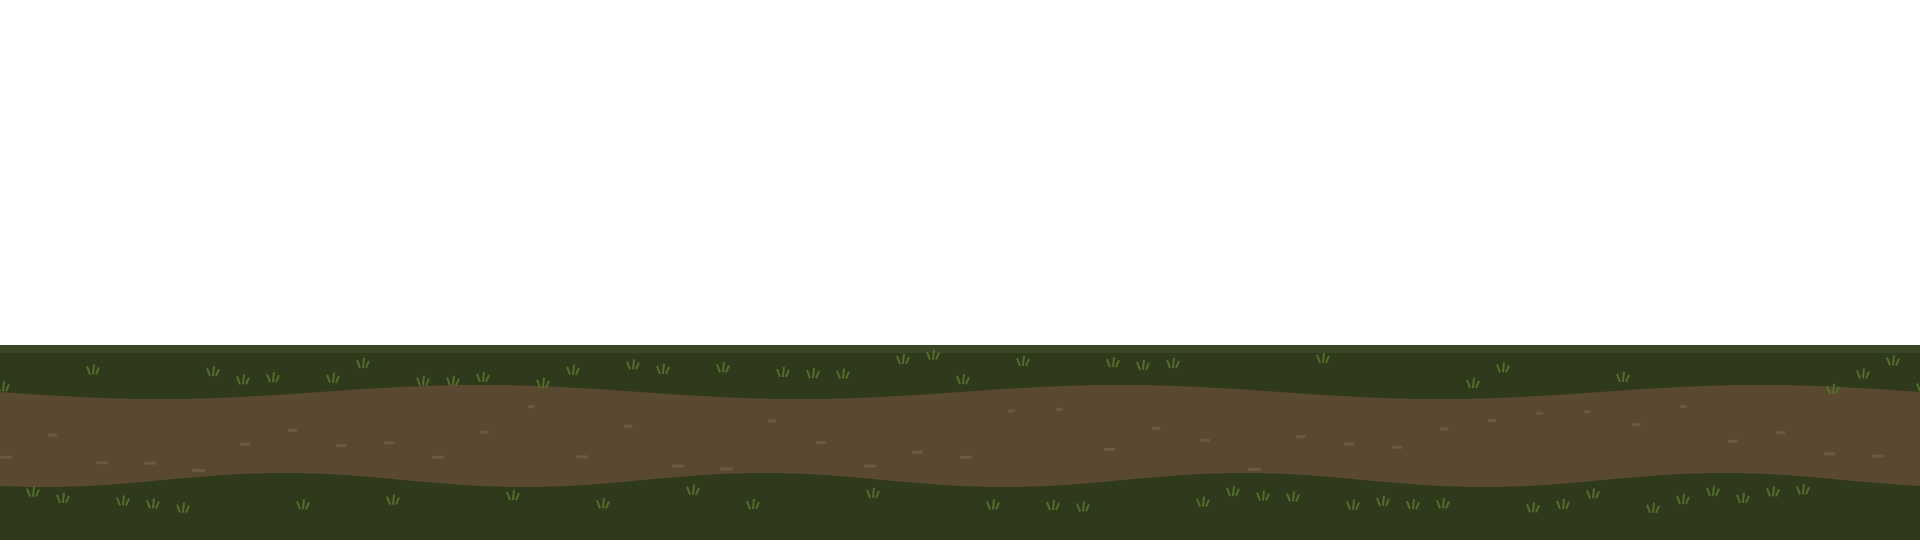
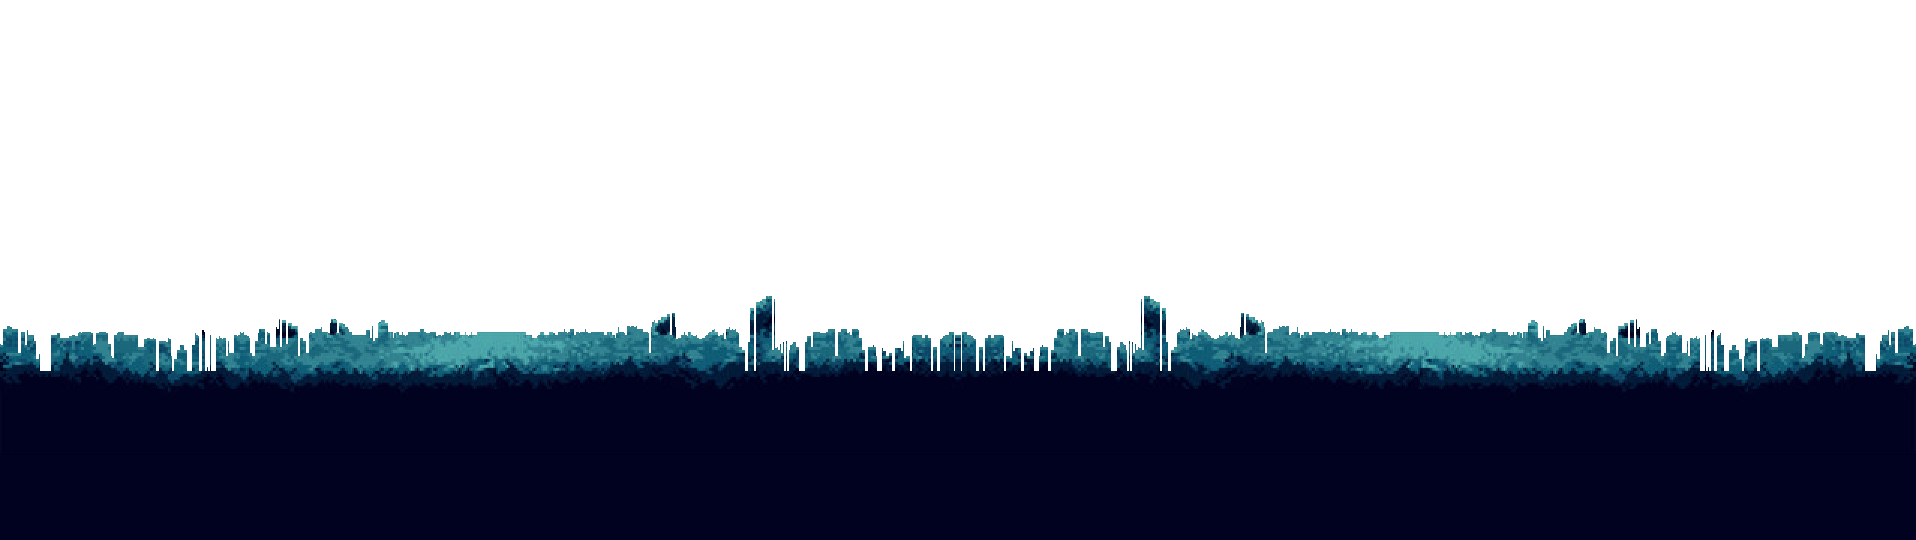
Act I: moonlit forest background with Castle Ravenloft
- Dark forest (art-source/backgrounds/forest-dark.png) as a slow backdrop,
  tiled seamlessly by mirroring; its small moon painted out
- Castle + moon cut from forest-castle.png, recoloured to the forest's
  teal palette with soft edges, shown once in the clearing
- Ground from the forest's own grass line, aligned to the walkable floor
- Background layers can be 'once' (single image, scrolls by, pinned on
  title/menu screens)
- Old placeholder forest layers removed (title/select use the new art)

diff --git a/src/data/backgrounds.js b/src/data/backgrounds.js
@@ -3,16 +3,15 @@
 // factor -> how fast the layer scrolls with the camera (0 = fixed sky, 1 = moves with the floor, >1 = foreground)
 // drift  -> extra pixels per tick the layer slides on its own (clouds, fog)
 // front  -> drawn in front of the characters
+// once   -> shown a single time instead of repeating: the image's left edge sits at this x (in pixels) at the
+//           start of the level, then scrolls at `factor` like the others. On title/menu screens it stays put.
+// y      -> for `once` layers: how far down the image's top edge sits
 // Scrolling layers should tile seamlessly left-to-right (the placeholders are 1920px wide).
 export const BACKGROUNDS = {
-  forest: [
-    { file: 'sky', factor: 0 },
-    { file: 'hillsFar', factor: 0.08 },
-    { file: 'hillsNear', factor: 0.16 },
-    { file: 'treesFar', factor: 0.3 },
-    { file: 'treesNear', factor: 0.62 },
+  forest: [          // Act I, also the title and hero select screens (made by tools/backgrounds/make_forest.py)
+    { file: 'backdrop', factor: 0.15 },               // the dark forest
+    { file: 'castle', factor: 0.15, once: 400, y: 40 }, // Castle Ravenloft and the moon, in the forest clearing
     { file: 'ground', factor: 1 },
-    { file: 'foreground', factor: 1.3, front: true },
   ],
   gothic: [
     { file: 'sky', factor: 0 },

diff --git a/src/ui/widgets.js b/src/ui/widgets.js
@@ -49,16 +49,19 @@ export function buildLayers(scene, theme, { fixed = false } = {}) {
   return BACKGROUNDS[theme].map((def, i) => {
     const key = `bg-${theme}-${def.file}`;
     const tex = scene.textures.get(key).getSourceImage();
-    const obj = def.factor === 0
-      ? scene.add.image(0, 0, key).setOrigin(0)
+    const obj = def.once != null ? scene.add.image(def.once, def.y || 0, key).setOrigin(0)   // shown once
+      : def.factor === 0 ? scene.add.image(0, 0, key).setOrigin(0)
       : scene.add.tileSprite(0, 0, W, tex.height || H, key).setOrigin(0);
     obj.setScrollFactor(0).setDepth(def.front ? 9000 : -1000 + i);
     if (fixed && def.front) obj.setVisible(false);
-    return { obj, factor: def.factor, drift: def.drift || 0 };
+    return { obj, factor: def.factor, drift: def.drift || 0, once: def.once, pinned: fixed };
   });
 }
 export function scrollLayers(layers, cam, tick) {
-  for (const l of layers) if (l.factor) l.obj.tilePositionX = cam * l.factor + tick * l.drift;
+  for (const l of layers) {
+    if (l.once != null) { if (!l.pinned) l.obj.x = Math.round(l.once - cam * l.factor); }   // single image slides by
+    else if (l.factor) l.obj.tilePositionX = cam * l.factor + tick * l.drift;
+  }
 }
 
 // Dark wash used behind menus

diff --git a/tools/backgrounds/make_forest.py b/tools/backgrounds/make_forest.py
@@ -1,0 +1,65 @@
+# Builds Act I's background (theme 'forest') from two pieces of art:
+#   art-source/backgrounds/forest-dark.png    the dark forest (scrolls, repeats seamlessly by mirroring)
+#   art-source/backgrounds/forest-castle.png  the castle and moon (cut out once, recoloured to the forest's palette)
+# Not part of the game. Needs Python with Pillow + NumPy (see tools/sprite-from-concept/README.md for setup).
+#   python tools/backgrounds/make_forest.py
+# Writes assets/backgrounds/forest/backdrop.png, castle.png and ground.png.
+import os
+import numpy as np
+from PIL import Image, ImageFilter
+
+ROOT = os.path.abspath(os.path.join(os.path.dirname(__file__), '..', '..'))
+OUT = os.path.join(ROOT, 'assets', 'backgrounds', 'forest')
+H = 540
+K = 1.5        # the forest art is 639x360; x1.5 fills the 540px-tall screen
+LIFT = 60      # raise the forest so its tree line sits at the top of the walkable floor (y 345)
+
+def load(name): return np.array(Image.open(os.path.join(ROOT, 'art-source', 'backgrounds', name)).convert('RGB')).astype(float)
+def scale(a, k): return np.array(Image.fromarray(a.astype(np.uint8)).resize((round(a.shape[1] * k), round(a.shape[0] * k)), Image.NEAREST)).astype(float)
+def mirror_tile(a): return np.concatenate([a, a[:, ::-1]], 1)   # image + flipped copy: repeats with no visible seam
+def save(a, name): Image.fromarray(np.clip(a, 0, 255).astype(np.uint8)).save(os.path.join(OUT, name + '.png'), optimize=True)
+
+forest = load('forest-dark.png')
+
+# 1. backdrop: the forest, its small moon removed (the castle brings its own), lifted, tiled by mirroring
+f = forest.copy()
+yy, xx = np.mgrid[0:f.shape[0], 0:f.shape[1]]
+f[(xx - 318) ** 2 + (yy - 28) ** 2 < 26 ** 2] = (14, 94, 119)          # paint the moon and its glow out with sky colour
+big = scale(f, K)[LIFT:LIFT + H]
+big = np.concatenate([big, np.tile(big[-1:], (H - big.shape[0], 1, 1))], 0) if big.shape[0] < H else big
+save(mirror_tile(big), 'backdrop')
+
+# 2. ground: the forest's own grassy floor, from the first bright grass row down; the rest dark
+band = forest[250:356]                                 # (the very last rows are a JPEG edge artifact)
+top = np.full(band.shape[1], 50)
+for x in range(band.shape[1]):
+    rows = np.where(band[:, x, 1] > 120)[0]            # first bright-grass pixel in this column
+    if len(rows): top[x] = min(rows[0], 50)
+top = np.maximum(top, np.array([np.median(top[max(0, x - 6):x + 7]) for x in range(len(top))]) - 3).astype(int)   # no single-column spikes
+alpha = (np.arange(band.shape[0])[:, None] >= top[None, :]) * 255.0
+g = scale(np.dstack([band, alpha]), K)
+grass_top = int(np.median(top) * K)                   # put the grass line just above the floor's top edge
+y0 = 335 - grass_top
+layer = np.zeros((H, g.shape[1], 4))
+layer[y0:y0 + g.shape[0]] = g[:H - y0]
+below = y0 + g.shape[0]
+if below < H: layer[below:] = (1, 2, 32, 255)          # deep shadow under the grass
+save(mirror_tile(layer), 'ground')
+
+# 3. castle: cut from the second image, recoloured into the forest's teal palette, soft edges, shown once
+castle = load('forest-castle.png')[20:330, 295:470]
+lum = castle @ [0.3, 0.55, 0.15]
+sky_lum = np.median(lum[:30, :20])                      # the night sky next to the castle
+stops = [(0, (1, 2, 32)), (sky_lum * 0.55, (3, 40, 72)), (sky_lum, (14, 94, 119)), (150, (72, 168, 167)), (225, (249, 234, 215)), (256, (255, 250, 235))]
+xs = [s[0] for s in stops]
+recol = np.dstack([np.interp(lum, xs, [s[1][c] for s in stops]) for c in range(3)])
+h, w = lum.shape
+yy, xx = np.mgrid[0:h, 0:w]
+cx, cy = w * 0.52, h * 0.42
+edge = np.clip(1.6 - np.sqrt(((xx - cx) / (w * 0.5)) ** 2 + ((yy - cy) / (h * 0.62)) ** 2) * 1.6, 0, 1)   # soft oval
+fade = np.clip((h * 0.97 - yy) / (h * 0.3), 0, 1)                                                          # base fades into the trees
+a = (edge * fade * 255)
+a = np.array(Image.fromarray(a.astype(np.uint8)).filter(ImageFilter.GaussianBlur(3))).astype(float)
+c = scale(np.dstack([recol, a]), 0.95)
+save(c, 'castle')
+print('backdrop', mirror_tile(big).shape[:2], '| ground', mirror_tile(layer).shape[:2], '| castle', c.shape[:2])

diff --git a/PROJECT.md b/PROJECT.md
@@ -141,6 +141,7 @@ Write down any choice we'd otherwise forget the reason for.
 
 Newest at the top. One line per change is plenty.
 
+- **2026-10-09**: Act I (and the title and select screens) has a new pixel-art background: a dark moonlit forest that repeats seamlessly, with Castle Ravenloft and a full moon in the clearing, shown **once** and drifting slowly. Backgrounds can now have `once` layers. Built by `tools/backgrounds/make_forest.py` from two images in `art-source/backgrounds/`.
 - **2026-10-09**: **Fixed:** since the Phaser 4 upgrade, any animation with uneven frame timing (attacks, spells, idles, hurt, death) skipped straight to its last frame, so attacks showed no swing. Phaser 4 reads a frame's duration as its total time on screen (Phaser 3 treated it as extra time), and `BootScene.js` now passes the real durations. Walks weren't affected because their frames are all the same length.
 - **2026-10-09**: Fae'ron gets final art (`art-source/faeron-sheet.png`, from ChatGPT): thrust, slash and lunge combo, Thunderwave with sound rings, Song of Rest with music notes. His walk properly alternates legs. The converter learned to read sheets with real transparency (`transparent`, `solid`), keep faint spell glow, and resize rows drawn at the wrong size (`resize`).
 - **2026-10-09**: New 6-frame walk cycle for Rolfing (`art-source/rolfing-walk.png`, from ChatGPT). Its export left a faint checkerboard haze, so the converter's new `solid` option keeps only the near-solid dwarf.

diff --git a/SPRITES.md b/SPRITES.md
@@ -106,6 +106,10 @@ Each level theme has layers in `assets/backgrounds/<theme>/`, listed back to fro
   The placeholders are 1920px wide, but any width works.
 - The walkable floor is between **y = 345 and y = 515**. Keep the ground layer's horizon at 345.
 - `foreground` layers draw in front of the characters, so keep them sparse.
+- A layer with `once` in `src/data/backgrounds.js` is a single image that doesn't repeat, such as Act I's
+  castle. It can be any size and can have transparency.
+- Act I's layers are built from `art-source/backgrounds/forest-dark.png` and `forest-castle.png` by
+  `tools/backgrounds/make_forest.py` (it lines them up, recolors the castle and makes the forest repeat seamlessly).
 
 ## Sound
 
